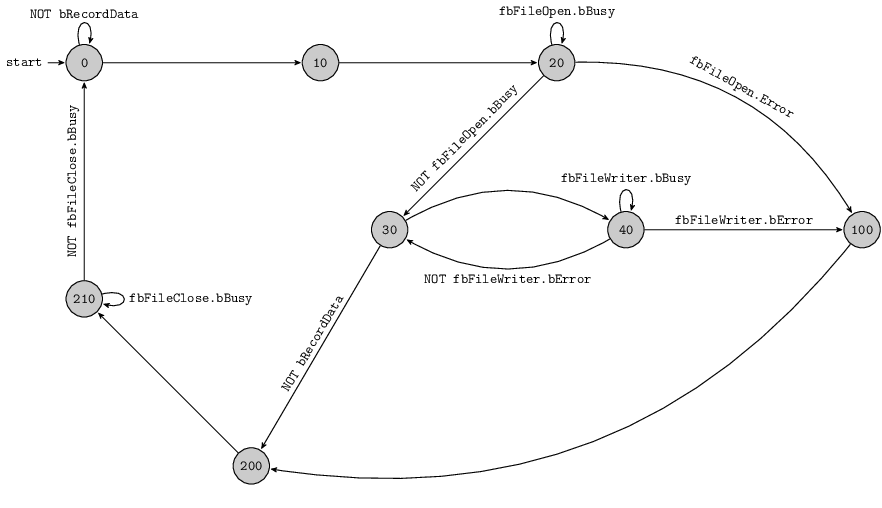
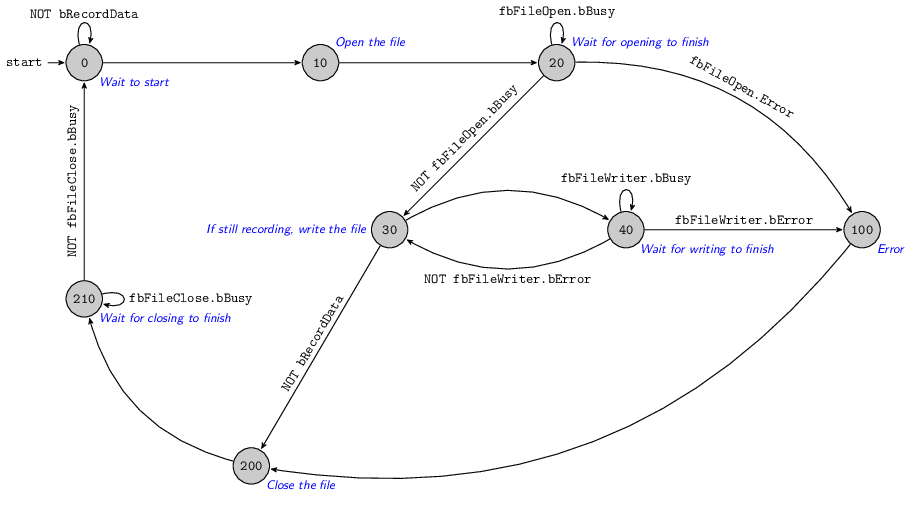
updated diagram

diff --git a/docs/state_diagram.tex b/docs/state_diagram.tex
@@ -6,6 +6,7 @@
 
 \usepackage{pgf}
 \usepackage{tikz}
+\usepackage{xcolor}
 \usetikzlibrary{arrows,automata}
 \usepackage[latin1]{inputenc}
 
@@ -16,31 +17,45 @@
                     semithick]
 \tikzstyle{every state}=[fill=lightgray,draw=black,text=black]
 
-\node[initial,state] 	(0) 	{0};
+\node[initial,state] 	(0) 					{0};
 \node[state]		(10) 	[right of=0]			{10};
 \node[state]		(20) 	[right of=10]			{20};
-\node[state]		(30) 	[below left of=20]			{30};
+\node[state]		(30) 	[below left of=20]		{30};
 \node[state]		(40) 	[right of=30]			{40};
-\node[state]		(100) 	[right of=40]		{100};
-\node[state]		(210) 	[below of=0]	{210};
+\node[state]		(100) 	[right of=40]			{100};
+\node[state]		(210) 	[below of=0]			{210};
 \node[state]		(200) 	[below right of=210]	{200};
 
 
-\path 	(0)	edge	[loop above]	node	{NOT bRecordData}	(0)
-	(0)	edge			node	{}	(10)
-	(10)	edge			node	{}	(20)
-	(20)	edge	[loop above]	node	{fbFileOpen.bBusy}	(20)
+\path 	(0)	edge	[loop above]	node	{NOT bRecordData}				(0)
+	(0)	edge			node	{}							(10)
+	(10)	edge			node	{}							(20)
+	(20)	edge	[loop above]	node	{fbFileOpen.bBusy}					(20)
 	(20)	edge			node	[above, sloped]{NOT fbFileOpen.bBusy}	(30)
-	(30)	edge	[bend left]	node	{}	(40)
-	(40)	edge	[loop above]	node	{fbFileWriter.bBusy}	(40)
-	(40)	edge	[bend left]	node	[below]{NOT fbFileWriter.bError}	(30)
-	(30)	edge			node 	[above, sloped]{NOT bRecordData}	(200)
-	(200)	edge			node 	{}	(210)
+	(30)	edge	[bend left]	node	{}							(40)
+	(40)	edge	[loop above]	node	{fbFileWriter.bBusy}				(40)
+	(40)	edge	[bend left]	node	[below]{NOT fbFileWriter.bError}		(30)
+	(30)	edge			node 	[above, sloped]{NOT bRecordData}		(200)
+	(200)	edge	[bend left]	node 	{}							(210)
 	(210)	edge			node 	[above, sloped]{NOT fbFileClose.bBusy}	(0)
-	(210)	edge	[loop right]	node	{fbFileClose.bBusy}	(210)
-	(20)	edge	[bend left]	node 	[above, sloped]{fbFileOpen.Error}	(100)
-	(40)	edge			node 	{fbFileWriter.bError}	(100)
-	(100)	edge	[bend left]	node	{}	(200);
+	(210)	edge	[loop right]	node	{fbFileClose.bBusy}					(210)
+	(20)	edge	[bend left]	node 	[above, sloped]{fbFileOpen.Error}		(100)
+	(40)	edge			node 	{fbFileWriter.bError}				(100)
+	(100)	edge	[bend left]	node	{}							(200);
+
+\fontfamily{\sfdefault}\selectfont
+\small
+\itshape
+\color{blue}
+
+\draw	(0)	node	[below right=0.25cm]{Wait to start}
+	(10)	node	[above right=0.25cm]{Open the file}
+	(20)	node	[above right=0.25cm]{Wait for opening to finish}
+	(30)	node	[left=0.5cm]{If still recording, write the file}
+	(40)	node	[below right=0.25cm]{Wait for writing to finish}
+	(100)	node	[below right=0.25cm]{Error}
+	(200)	node	[below right=0.25cm]{Close the file}
+	(210)	node	[below right=0.25cm]{Wait for closing to finish};
 
 
 \end{tikzpicture}
